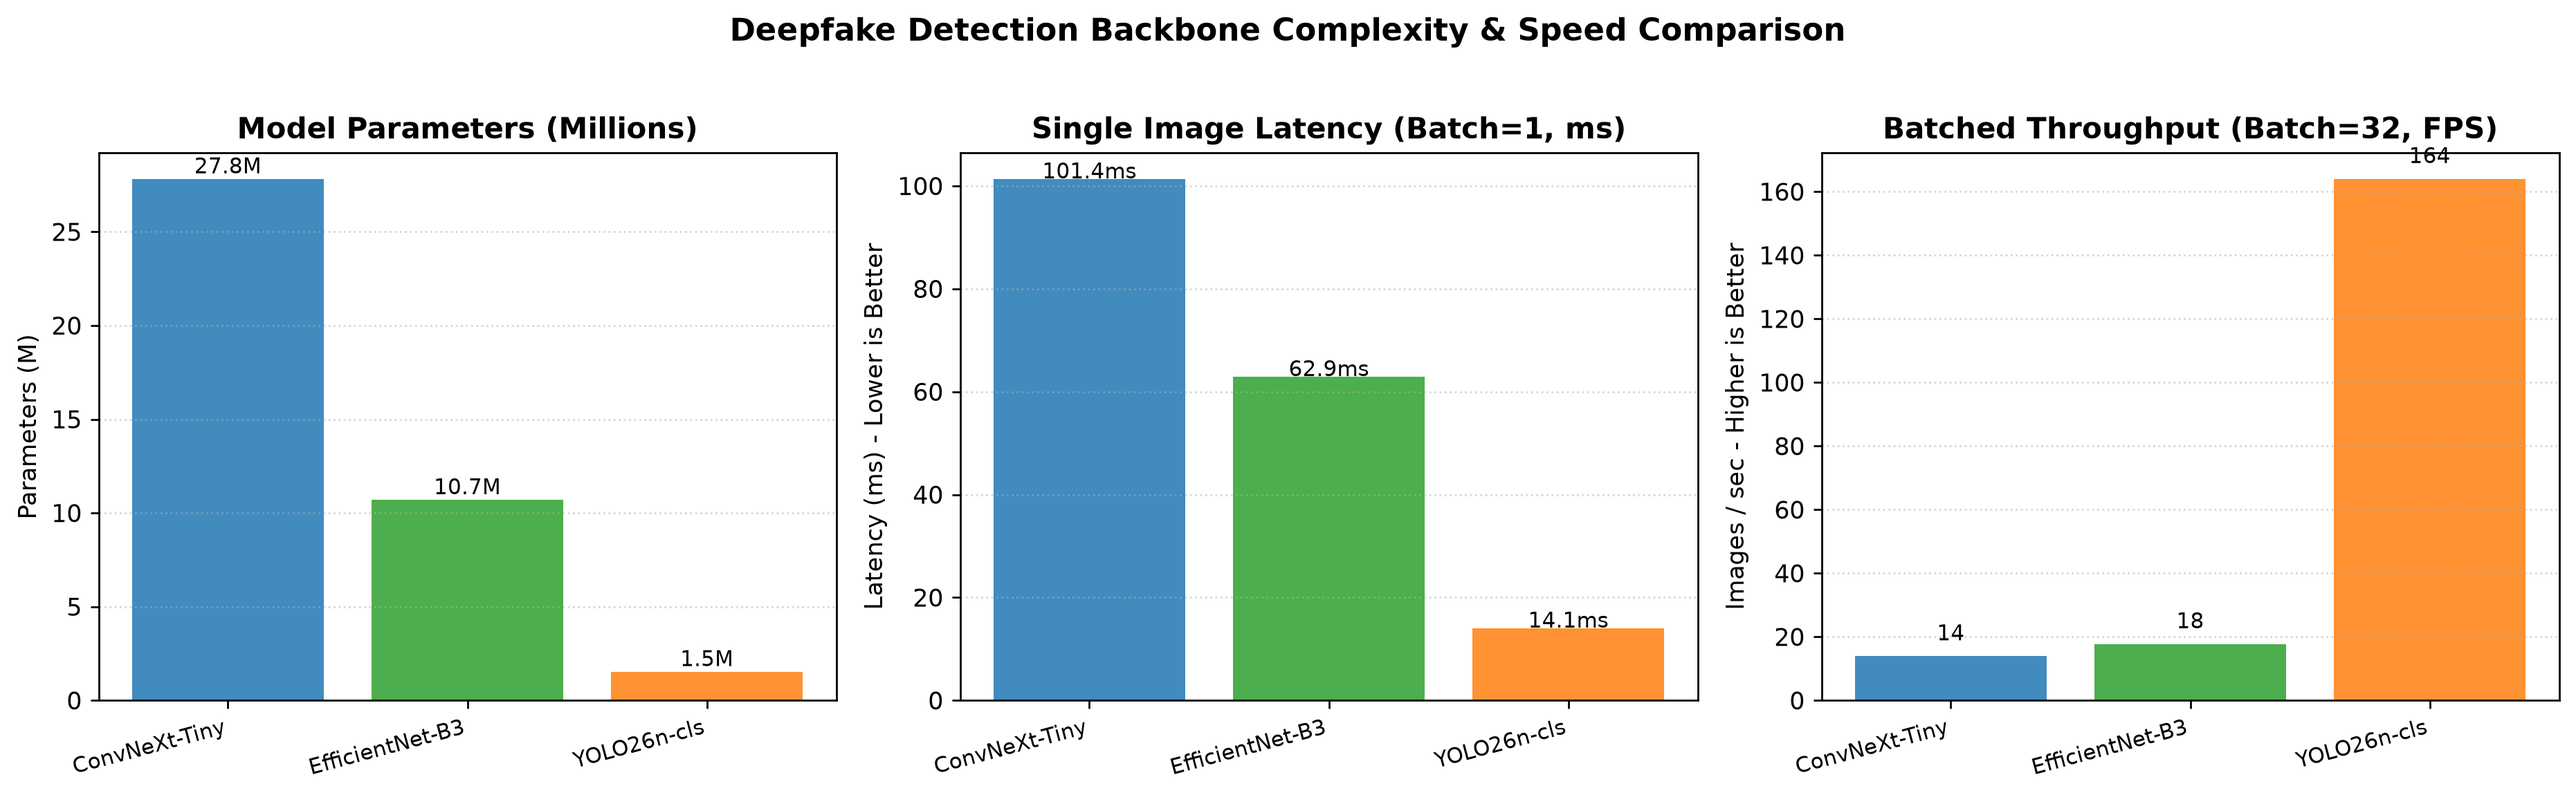
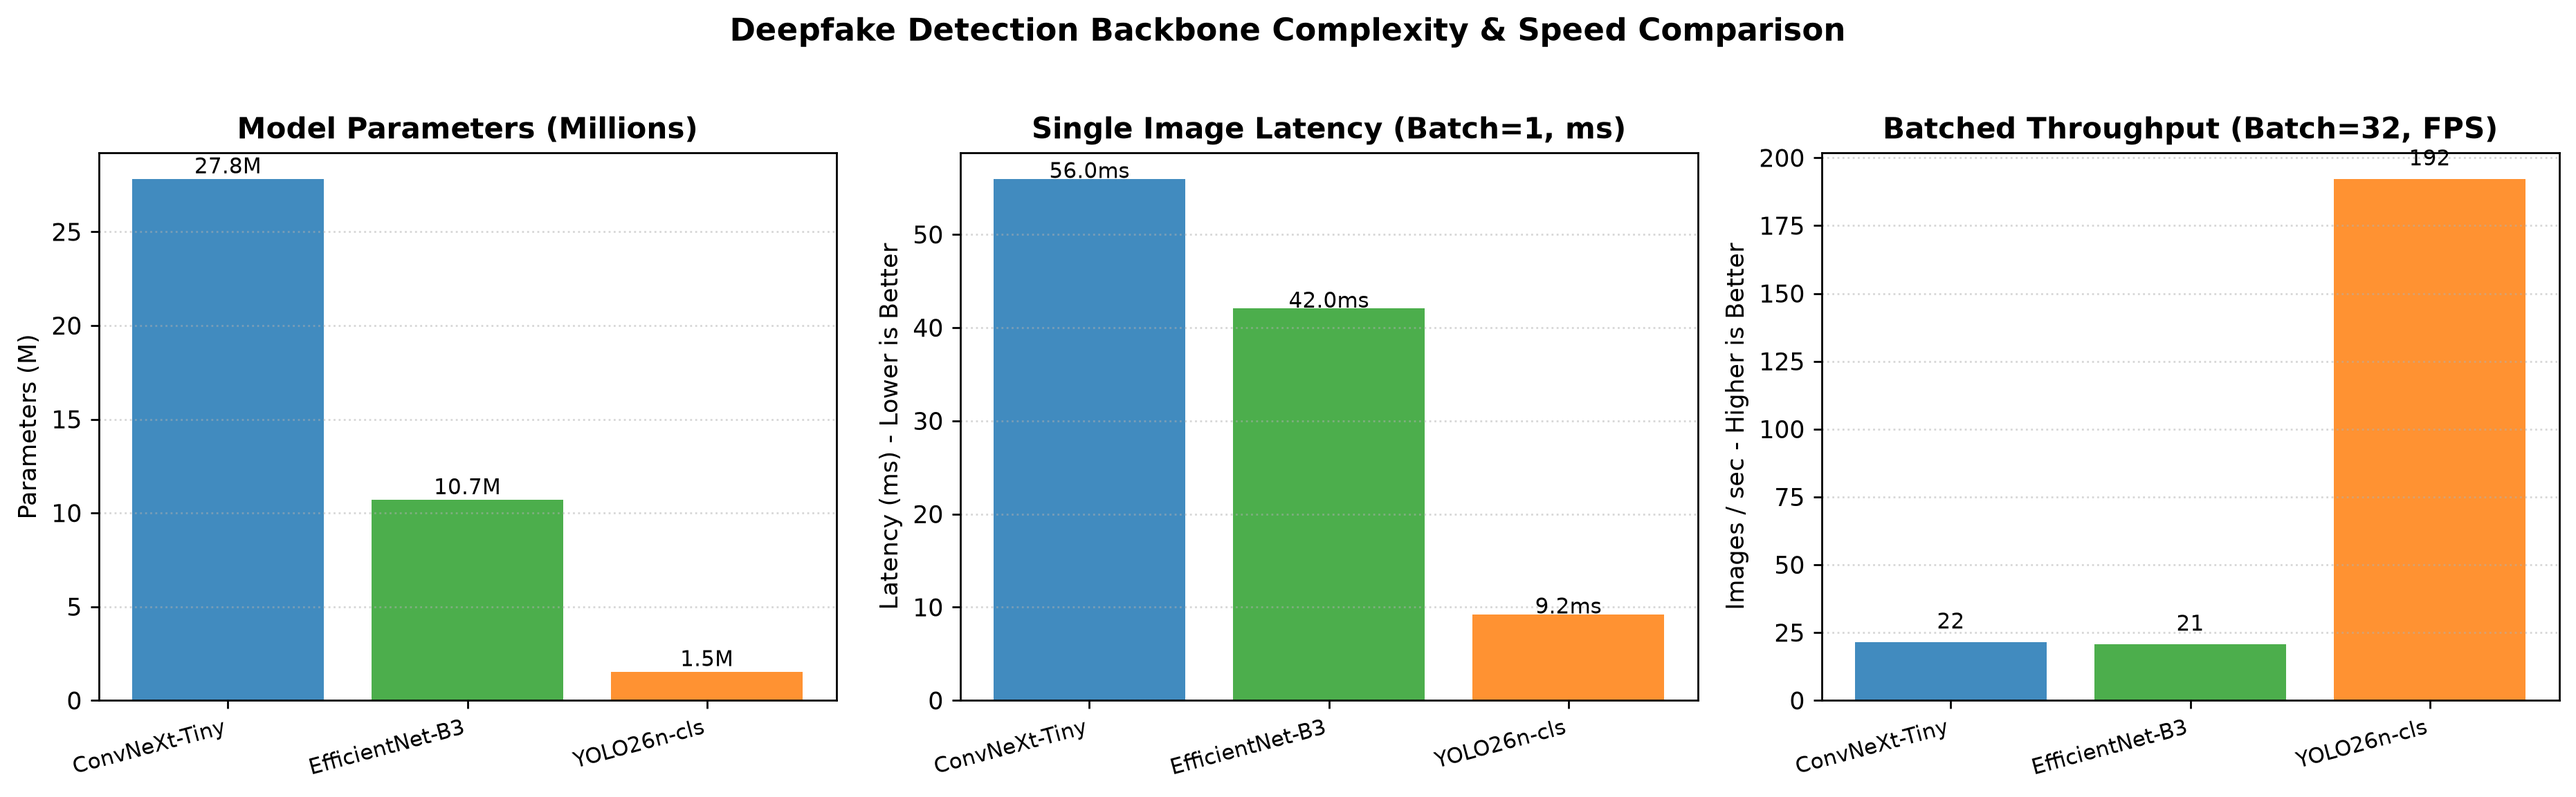
Refresh the speed benchmark artefacts

diff --git a/reports/model_benchmark_table.md b/reports/model_benchmark_table.md
@@ -6,10 +6,10 @@
 
 | Architecture | Parameters (M) | Model Size (MB) | Compute (GFLOPs) | Latency (Batch=1, ms) | P95 Latency (ms) | Throughput (FPS, B=32) |
 |:---|:---:|:---:|:---:|:---:|:---:|:---:|
-| ConvNeXt-Tiny (timm) | 27.82 M | 334.1 MB | 8.93 | 101.36 ms | 128.47 ms | 13.9 fps |
-| EfficientNet-B3 (timm) | 10.70 M | 129.2 MB | 2.03 | 62.93 ms | 74.69 ms | 17.7 fps |
-| YOLO26n-cls (Ultralytics) | 1.53 M | 3.2 MB | 0.40 | 14.05 ms | 18.12 ms | 164.0 fps |
-| **Soft-Voting Ensemble (All 3)** | **40.05 M** | **466.5 MB** | **11.36** | **178.34 ms** | **221.28 ms** | **14.0 fps** |
+| ConvNeXt-Tiny (timm) | 27.82 M | 334.1 MB | 8.93 | 55.96 ms | 58.42 ms | 21.5 fps |
+| EfficientNet-B3 (timm) | 10.70 M | 129.2 MB | 2.03 | 42.05 ms | 44.27 ms | 20.7 fps |
+| YOLO26n-cls (Ultralytics) | 1.53 M | 3.2 MB | 0.40 | 9.23 ms | 10.12 ms | 192.2 fps |
+| **Soft-Voting Ensemble (All 3)** | **40.05 M** | **466.5 MB** | **11.36** | **107.24 ms** | **112.81 ms** | **23.3 fps** |
 
 > [!NOTE]
 > - **YOLO26n-cls**: Minimal parameter count and highest batch throughput, ideal for real-time edge screening.
